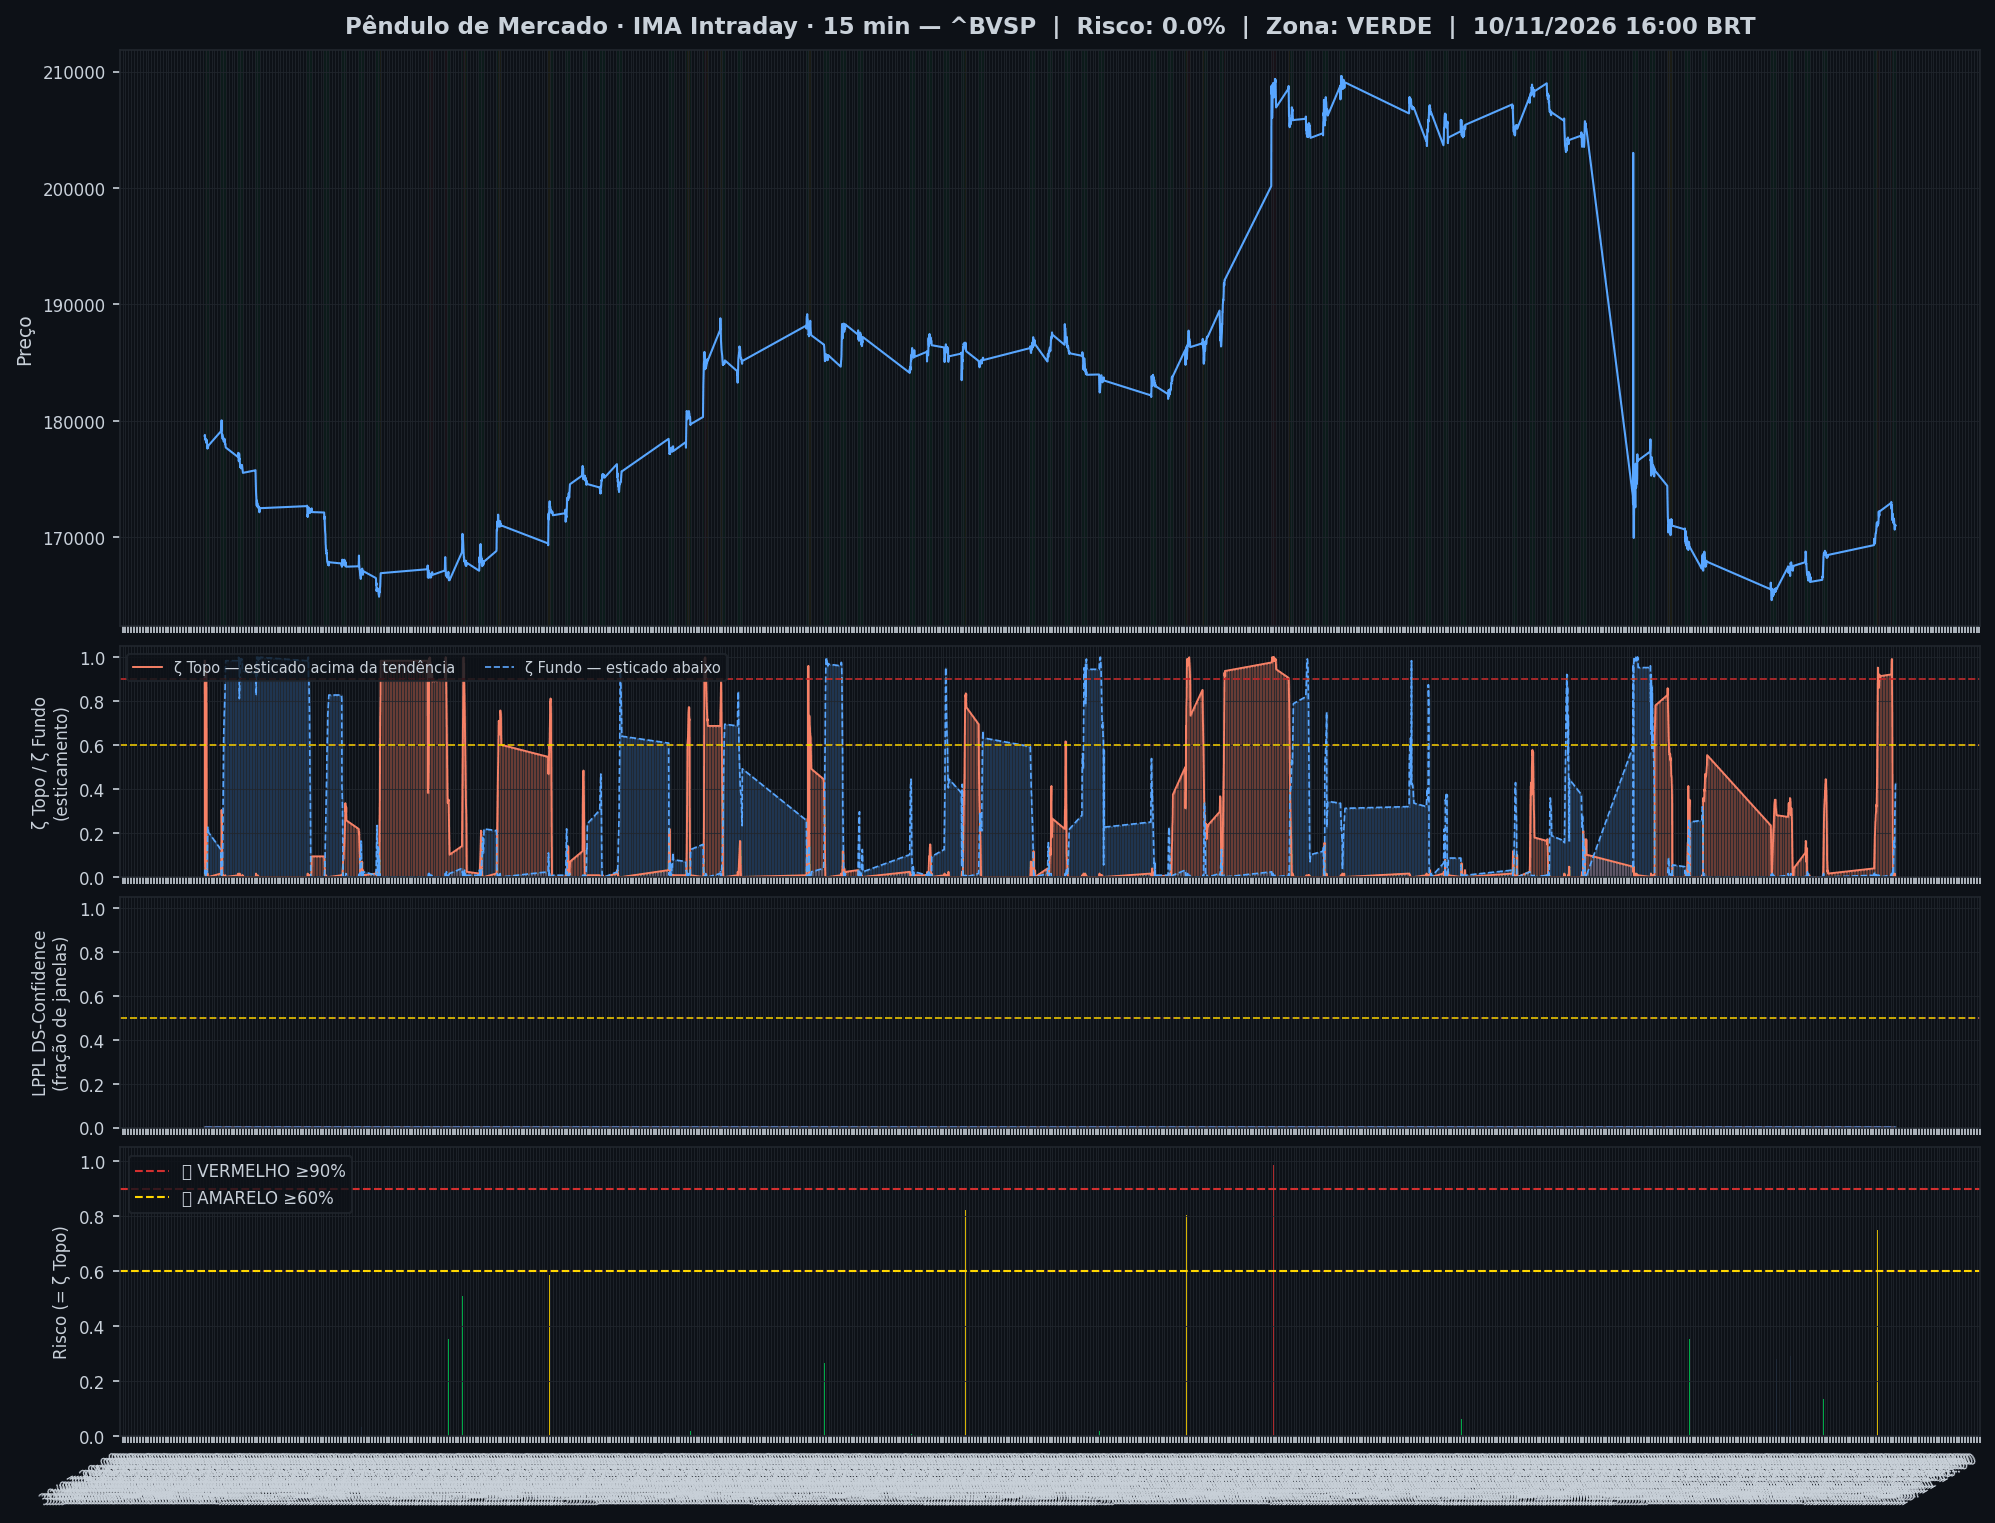
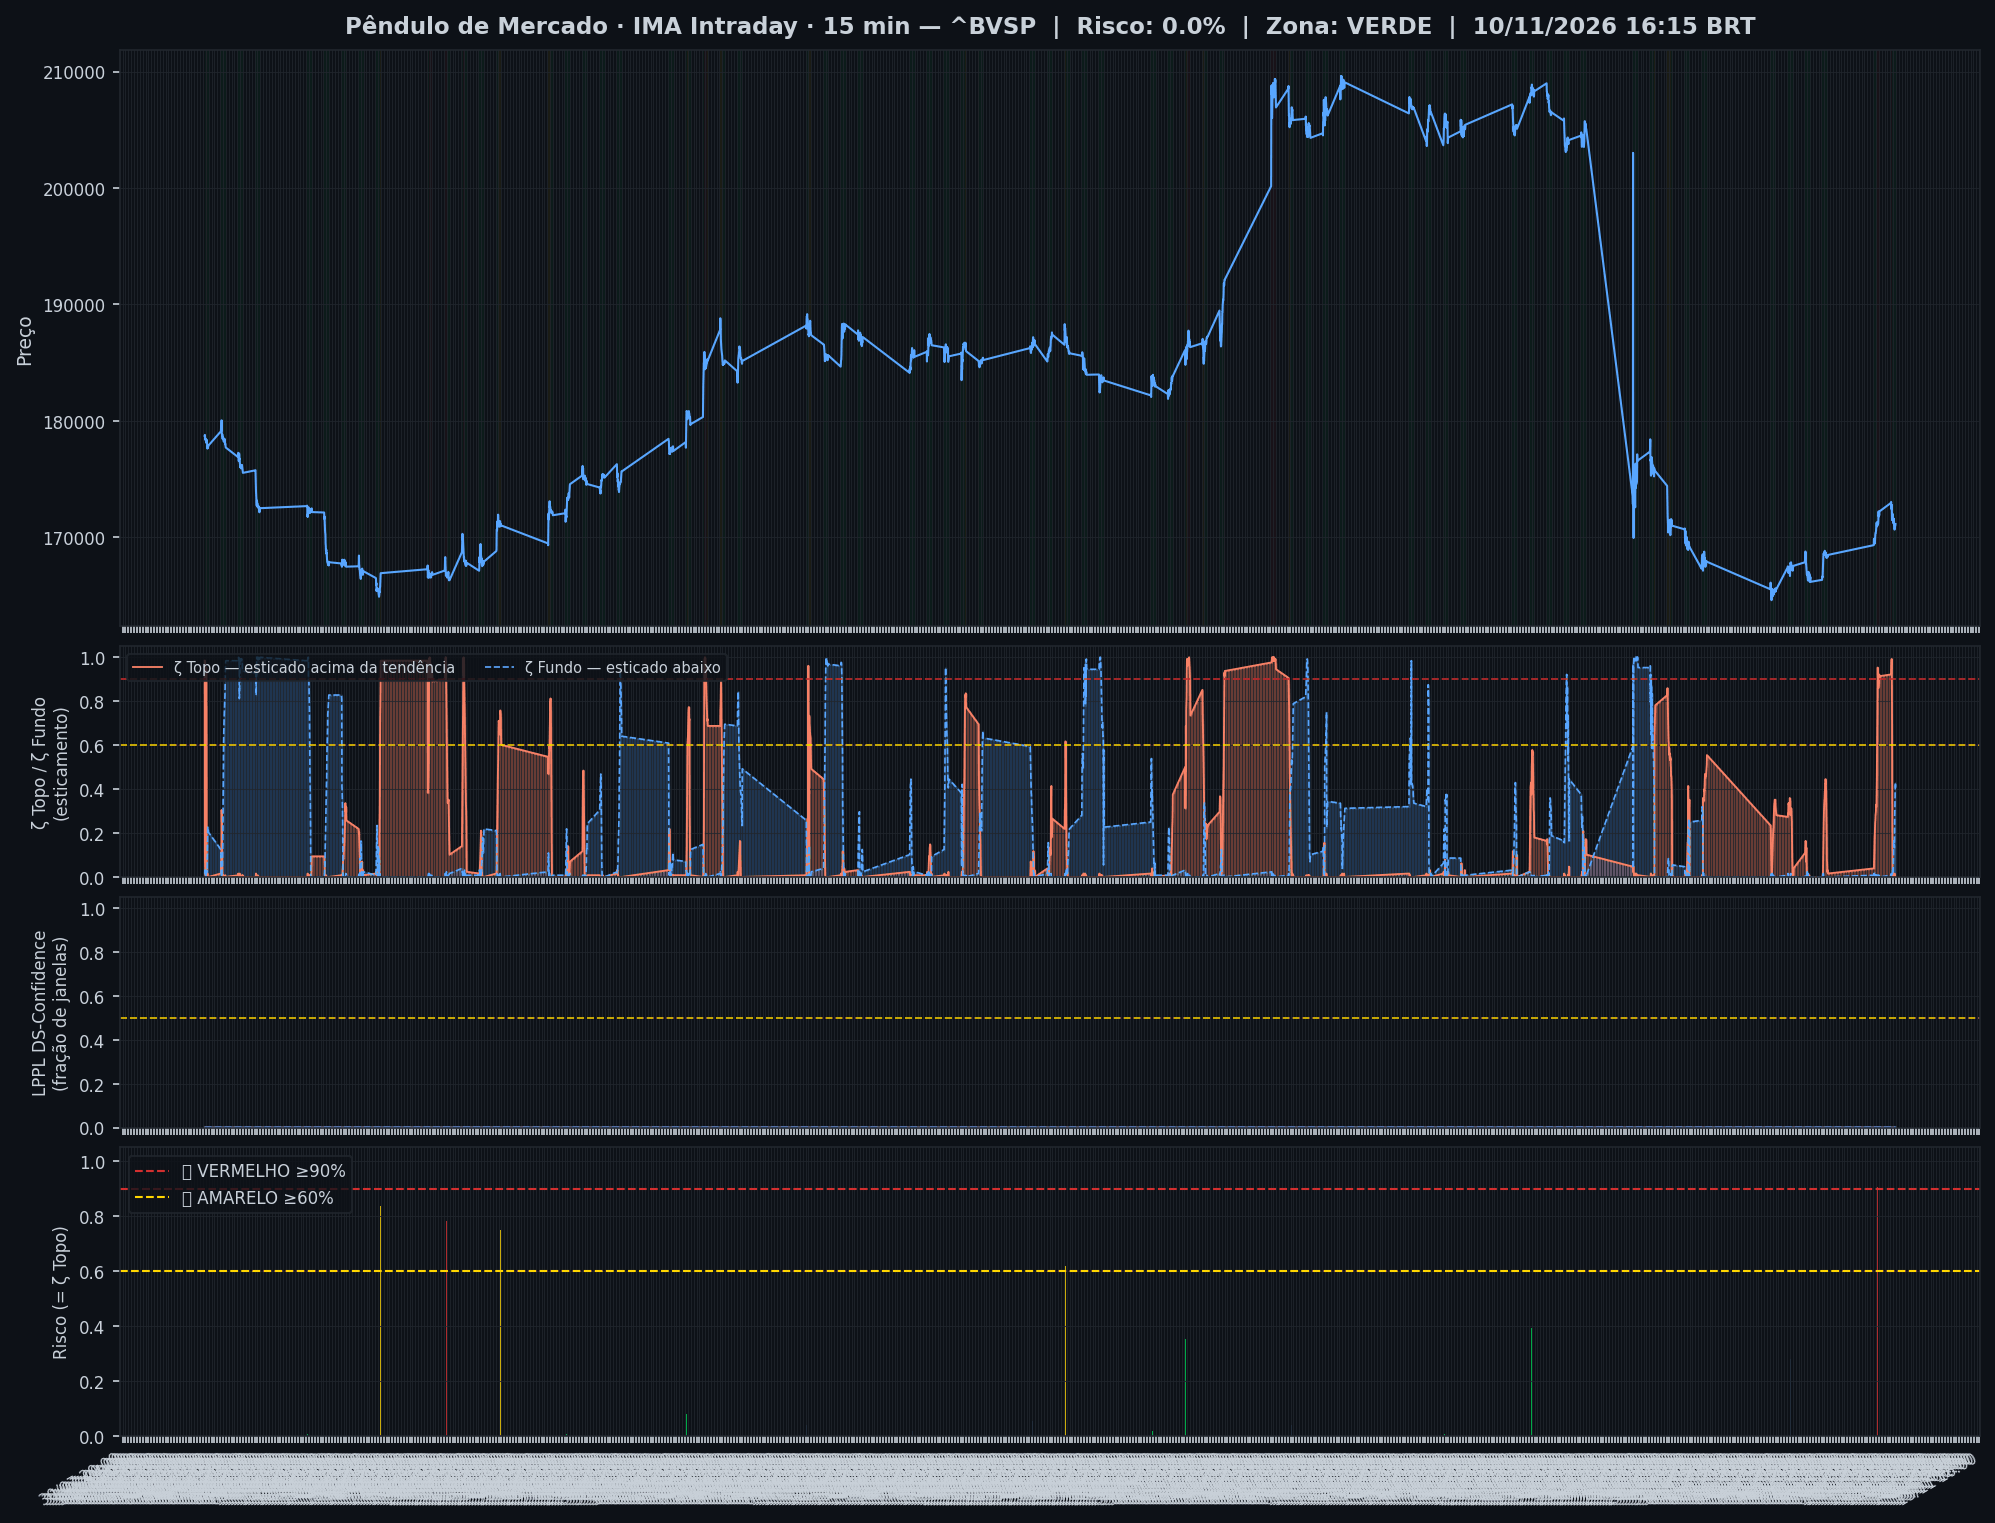
🤖 Auto: Sinal 10/11/2026 16:30

Changed region(s): [[0.7769, 0.4629, 0.9013, 0.5863], [0.6216, 0.4629, 0.6526, 0.5555]]

diff --git a/content/intraday/2026-11-10.md b/content/intraday/2026-11-10.md
@@ -1,10 +1,10 @@
 ---
-title: "🟢 Intraday 10/11/2026 16:00 BRT — VERDE"
+title: "🟢 Intraday 10/11/2026 16:15 BRT — VERDE"
 date: 2026-11-10
 tags: [intraday]
 ---
 
-> [!success] Onde o mercado está agora (10/11 16:00, candles de 15 min): **🟢 Calmo**
+> [!success] Onde o mercado está agora (10/11 16:15, candles de 15 min): **🟢 Calmo**
 > `Pânico ◀──────●──────────────▶ Euforia`
 >
 > O Ibovespa está dentro da sua faixa normal, sem excesso para cima nem para baixo.
@@ -20,7 +20,7 @@ tags: [intraday]
 > | 📍 **Sinais** | hoje: nenhum sinal | [abrir](sinais-topo-fundo/) |
 > | 🧪 **Placar ao vivo** | 1 operação(ões), 0 com lucro, soma -0,8% | [abrir](operacoes/) |
 
-> [!success] IMA Intraday · 15 min (10/11 16:00): 🟢 **VERDE** — Risco 0% · ＝ +0 p.p. vs leitura anterior
+> [!success] IMA Intraday · 15 min (10/11 16:15): 🟢 **VERDE** — Risco 0% · ＝ +0 p.p. vs leitura anterior
 > `░░░░░░░░░░░░░░░░░░░░`
 > Preço na faixa normal em torno da tendência.
 
@@ -32,13 +32,13 @@ tags: [intraday]
 >
 > *Leitura educacional baseada em 26 anos de dados, não recomendação. [Como usar](../metodologia/crise#3-como-usar-na-prática).*
 
-| Indicador — IMA Intraday · 15 min (10/11 16:00) | Valor |
+| Indicador — IMA Intraday · 15 min (10/11 16:15) | Valor |
 |---|---|
 | 🔴 ζ Topo — preço esticado acima da tendência | **0%** |
-| 🔵 ζ Fundo — preço esticado abaixo da tendência | 43% |
+| 🔵 ζ Fundo — preço esticado abaixo da tendência | 41% |
 | 🫧 LPPL bolha — alta super-exponencial (risco de crash) | 0% |
 | 🫧 LPPL antibolha — queda super-exponencial (risco de repique) | 0% |
-| 📊 Ibovespa | 171.014 pts |
+| 📊 Ibovespa | 171.152 pts |
 
 ![Gráfico do sinal](../graficos/sinal_intraday.png)
 
@@ -46,6 +46,7 @@ tags: [intraday]
 
 | Data | Zona | Evento | Risco | ζ Topo | ζ Fundo | LPPL |
 |---|---|---|---|---|---|---|
+| 2026-11-10 16:15 | 🟢 VERDE |  | **0%** | 0% | 41% | 0% |
 | 2026-11-10 16:00 | 🟢 VERDE |  | **0%** | 0% | 43% | 0% |
 | 2026-11-10 15:45 | 🟢 VERDE |  | **0%** | 0% | 41% | 0% |
 | 2026-11-10 15:30 | 🟢 VERDE |  | **0%** | 0% | 38% | 0% |
@@ -75,7 +76,6 @@ tags: [intraday]
 | 2026-11-09 17:45 | 🔴 VERMELHO |  | 🔴 **91%** | 🔴 **91%** | 0% | 0% |
 | 2026-11-09 17:30 | 🔴 VERMELHO |  | 🔴 **91%** | 🔴 **91%** | 0% | 0% |
 | 2026-11-09 17:15 | 🔴 VERMELHO |  | 🔴 **92%** | 🔴 **92%** | 0% | 0% |
-| 2026-11-09 17:00 | 🔴 VERMELHO |  | 🟡 **89%** | 🟡 **89%** | 1% | 0% |
 
 <small>Destaques: 🟡 ≥ 60% · 🔴 ≥ 90% (Risco e ζ Topo) · 🔵 ≥ 60% · 🔪 ≥ 90% (ζ Fundo) · 🫧 ≥ 30% · 🫧🔴 ≥ 50% (LPPL)</small>
 
@@ -84,41 +84,41 @@ tags: [intraday]
 **4% dos ativos em tensão** (1🔴 0🟡) · **0 com ζ Fundo alto** — quanto mais ativos disparam juntos, mais confiável o sinal.
 
 > [!warning] Em destaque no multi-ativo
-> 🟡 **EMBRAER** ζ Topo 89%
+> 🟡 **EMBRAER** ζ Topo 88%
 
 | Zona | Ativo | Setor | ζ Topo | ζ Fundo |
 |---|---|---|---|---|
-| 🔴 | **EMBRAER** | Outros | 🟡 **89.1%** | 0.0% |
-| 🟢 | **BRADESCO** | Financeiro | 0.0% | 53.1% |
-| 🟢 | **SABESP** | Saneamento | 0.0% | 50.8% |
-| 🟢 | **WEG** | Industrial | 43.0% | 0.0% |
-| 🟢 | **AMBEV S/A** | Consumo | 37.5% | 20.3% |
-| 🟢 | **ITAUSA** | Financeiro | 0.0% | 32.0% |
+| 🔴 | **EMBRAER** | Outros | 🟡 **88.3%** | 0.8% |
+| 🟢 | **BRADESCO** | Financeiro | 0.0% | 54.7% |
+| 🟢 | **SABESP** | Saneamento | 0.0% | 46.1% |
+| 🟢 | **WEG** | Industrial | 42.2% | 1.6% |
 | 🟢 | **ITAUUNIBANCO** | Financeiro | 0.0% | 30.5% |
-| 🟢 | **SUZANO S.A.** | Papel/Celulose | 0.0% | 26.6% |
-| 🟢 | **EQUATORIAL** | Energia | 0.0% | 22.7% |
-| 🟢 | **GERDAU** | Siderurgia | 21.1% | 0.0% |
-| 🟢 | **B3** | Financeiro | 0.0% | 15.6% |
-| 🟢 | **AXIA ENERGIA** | Energia | 0.0% | 14.8% |
-| 🟢 | **ENEVA** | Energia | 0.8% | 14.8% |
-| 🟢 | **PETROBRAS** | Petróleo | 14.1% | 0.0% |
+| 🟢 | **SUZANO S.A.** | Papel/Celulose | 0.0% | 30.5% |
+| 🟢 | **ITAUSA** | Financeiro | 0.0% | 29.7% |
+| 🟢 | **AMBEV S/A** | Consumo | 22.7% | 25.8% |
+| 🟢 | **GERDAU** | Siderurgia | 22.7% | 0.0% |
+| 🟢 | **PETROBRAS** | Petróleo | 19.5% | 0.0% |
+| 🟢 | **EQUATORIAL** | Energia | 0.0% | 19.5% |
+| 🟢 | **B3** | Financeiro | 0.0% | 17.2% |
 | 🟢 | **PRIO** | Petróleo | 12.5% | 0.0% |
-| 🟢 | **ULTRAPAR** | Outros | 0.0% | 11.7% |
-| 🟢 | **USD/BRL** | Câmbio | 11.7% | 10.2% |
-| 🟢 | **REDE D OR** | Saúde | 0.8% | 7.8% |
-| 🟢 | **VIBRA** | Energia | 0.0% | 3.9% |
-| 🟢 | **PETROBRAS** | Petróleo | 3.1% | 0.8% |
-| 🟢 | **VALE** | Mineração | 1.6% | 0.0% |
-| 🟢 | **BRASIL** | Financeiro | 0.0% | 1.6% |
-| 🟢 | **LOCALIZA** | Aluguel | 0.0% | 1.6% |
+| 🟢 | **USD/BRL** | Câmbio | 5.5% | 11.7% |
+| 🟢 | **AXIA ENERGIA** | Energia | 0.0% | 7.0% |
+| 🟢 | **ENEVA** | Energia | 0.8% | 7.0% |
+| 🟢 | **PETROBRAS** | Petróleo | 4.7% | 0.0% |
+| 🟢 | **REDE D OR** | Saúde | 0.8% | 3.9% |
+| 🟢 | **ULTRAPAR** | Outros | 0.0% | 3.9% |
 | 🟢 | **BTGP BANCO** | Financeiro | 0.0% | 0.8% |
-| 🟢 | **COPEL** | Energia | 0.0% | 0.8% |
+| 🟢 | **BRASIL** | Financeiro | 0.8% | 0.8% |
+| 🟢 | **VALE** | Mineração | 0.0% | 0.0% |
+| 🟢 | **COPEL** | Energia | 0.0% | 0.0% |
+| 🟢 | **VIBRA** | Energia | 0.0% | 0.0% |
+| 🟢 | **LOCALIZA** | Aluguel | 0.0% | 0.0% |
 
 <small>Destaques: 🟡 ≥ 60% · 🔴 ≥ 90% (Risco e ζ Topo) · 🔵 ≥ 60% · 🔪 ≥ 90% (ζ Fundo) · 🫧 ≥ 30% · 🫧🔴 ≥ 50% (LPPL)</small>
 
 ![Monitor multi-ativo](../graficos/multi_intraday.png)
 
-*Página atualizada em 10/11/2026 16:16 BRT (leitura da barra de 2026-11-10 16:00 BRT).*
+*Página atualizada em 10/11/2026 16:30 BRT (leitura da barra de 2026-11-10 16:15 BRT).*
 
 > [!warning] O que este indicador não faz
 > Medido em 5 anos de Ibovespa, o ζ **não antecipa** topos nem fundos: a capacidade de separar o que sobe do que cai ficou em 0,49–0,52, e 0,50 é moeda jogada ao ar. Ele descreve o estado de agora; não é aviso do que vem. As zonas verde/amarelo/vermelho continuam na página como descrição desse estado — **não as use como sinal de entrada ou saída**.

diff --git a/content/index.md b/content/index.md
@@ -6,9 +6,9 @@ tags: [home]
 
 **As ondas do mercado, explicadas.** Leitura do Ibovespa com estatística de 26 anos, baseada no trabalho de pesquisadores e traders reconhecidos e adaptada por Jarbas Daniel da Costa.
 
-*Última atualização: 10/11/2026 16:16 BRT · Intraday 15min*
+*Última atualização: 10/11/2026 16:30 BRT · Intraday 15min*
 
-> [!success] Onde o mercado está agora (10/11 16:00, candles de 15 min): **🟢 Calmo**
+> [!success] Onde o mercado está agora (10/11 16:15, candles de 15 min): **🟢 Calmo**
 > `Pânico ◀──────●──────────────▶ Euforia`
 >
 > O Ibovespa está dentro da sua faixa normal, sem excesso para cima nem para baixo.
@@ -44,18 +44,18 @@ tags: [home]
 > *Leitura educacional baseada em 26 anos de dados, não recomendação. [Como usar](metodologia/crise#3-como-usar-na-prática).*
 
 > [!info]- 🌊 Detalhes do Sinal IMA (indicadores e últimos 7 pregões)
-> > [!success] IMA Intraday · 15 min (10/11 16:00): 🟢 **VERDE** — Risco 0% · ＝ +0 p.p. vs leitura anterior
+> > [!success] IMA Intraday · 15 min (10/11 16:15): 🟢 **VERDE** — Risco 0% · ＝ +0 p.p. vs leitura anterior
 > > `░░░░░░░░░░░░░░░░░░░░`
 > > Preço na faixa normal em torno da tendência.
 >
 >
-> | Indicador — IMA Intraday · 15 min (10/11 16:00) | Valor |
+> | Indicador — IMA Intraday · 15 min (10/11 16:15) | Valor |
 > |---|---|
 > | 🔴 ζ Topo — preço esticado acima da tendência | **0%** |
-> | 🔵 ζ Fundo — preço esticado abaixo da tendência | 43% |
+> | 🔵 ζ Fundo — preço esticado abaixo da tendência | 41% |
 > | 🫧 LPPL bolha — alta super-exponencial (risco de crash) | 0% |
 > | 🫧 LPPL antibolha — queda super-exponencial (risco de repique) | 0% |
-> | 📊 Ibovespa | 171.014 pts |
+> | 📊 Ibovespa | 171.152 pts |
 >
 > **Multi-ativo:** 4% em tensão (1🔴 0🟡 de 25 ativos)
 >
@@ -63,7 +63,7 @@ tags: [home]
 >
 > | Data | Zona | Risco | ζ Topo | ζ Fundo | LPPL |
 > |---|---|---|---|---|---|
-> | [10/11/2026](intraday/2026-11-10) | 🟢 VERDE | **0%** | 0% | 43% | 0% |
+> | [10/11/2026](intraday/2026-11-10) | 🟢 VERDE | **0%** | 0% | 41% | 0% |
 > | [09/11/2026](intraday/2026-11-09) | 🔴 VERMELHO | 🔴 **91%** | 🔴 **91%** | 0% | 0% |
 >
 > <small>Destaques: 🟡 ≥ 60% · 🔴 ≥ 90% (Risco e ζ Topo) · 🔵 ≥ 60% · 🔪 ≥ 90% (ζ Fundo) · 🫧 ≥ 30% · 🫧🔴 ≥ 50% (LPPL)</small>

diff --git a/content/operacoes/entradas.md b/content/operacoes/entradas.md
@@ -31,7 +31,7 @@ description: "Compra depois de um sinal de fundo: Nadaraya no diário, semáforo
 > | Diário · Semáforo N3 após ζ Fundo | 07/07/26 a 172.021 | 10/08/26 a 172.021 | **+0,0%** | stop no preço de entrada |
 > | H4 · Semáforo N2 | 12/06/26 14h a 171.134 | 15/06/26 14h a 171.134 | **+0,0%** | stop no preço de entrada |
 >
-> <small>Atualizado 09/11 19:00 · checado no pregão às 16:15. Nota: ✅ passou no teste fora da amostra (walk-forward 2008–2026) · 🧪 em teste (H4, com aviso no Telegram) ou em observação (ζ, sem aviso) · 🧪 na tabela = operação do teste ao vivo.</small>
+> <small>Atualizado 09/11 19:00 · checado no pregão às 16:30. Nota: ✅ passou no teste fora da amostra (walk-forward 2008–2026) · 🧪 em teste (H4, com aviso no Telegram) ou em observação (ζ, sem aviso) · 🧪 na tabela = operação do teste ao vivo.</small>
 >
 > *Regras: depois de um sinal de fundo, o Diário entra quando o Nadaraya vira para cima; o Semanal e o H4 entram quando um fundo do semáforo fica fixo. Stop e saída de cada regra na [metodologia](metodologia/regras-de-operacao#entradas-do-método). Nenhuma regra de venda passou no teste. Os números do histórico têm viés de escolha (overfitting); o placar ao vivo é o que vale. Leitura educacional do método, não recomendação.*
 

diff --git a/content/historico.md b/content/historico.md
@@ -5,7 +5,7 @@ tags: [historico]
 
 # 📜 Histórico de leituras (v5)
 
-**2.269 leituras** desde 2026-07-03. Na página ficam os últimos 3 dias leitura por leitura e o resumo de cada dia anterior; o registro inteiro está no arquivo para baixar.
+**2.270 leituras** desde 2026-07-03. Na página ficam os últimos 3 dias leitura por leitura e o resumo de cada dia anterior; o registro inteiro está no arquivo para baixar.
 
 [**Baixar o histórico completo**](historico-completo.csv) (100 KB · abre no Excel e no LibreOffice)
 
@@ -16,6 +16,7 @@ tags: [historico]
 
 | Data | Modo | Zona | Risco | IMA | LPPL |
 |---|---|---|---|---|---|
+| 2026-11-10 16:15 | intraday | 🟢 VERDE | 0% | 0% | 0% |
 | 2026-11-10 16:00 | intraday | 🟢 VERDE | 0% | 0% | 0% |
 | 2026-11-10 15:45 | intraday | 🟢 VERDE | 0% | 0% | 0% |
 | 2026-11-10 15:30 | intraday | 🟢 VERDE | 0% | 0% | 0% |

diff --git a/content/operacoes/ranking.md b/content/operacoes/ranking.md
@@ -5,7 +5,7 @@ tags: [operacoes]
 description: "As regras de compra do site ordenadas pelo resultado, com treino, teste e placar ao vivo"
 ---
 
-*Atualizado 10/11/2026 16:16 · histórico simulado com as regras congeladas em 23/10/2026 + placar ao vivo.*
+*Atualizado 10/11/2026 16:30 · histórico simulado com as regras congeladas em 23/10/2026 + placar ao vivo.*
 
 As regras de compra do site, **da que mais rendeu para a que menos rendeu**. O resultado é por operação, no índice à vista, sem custos e sem juros compostos (a soma é só a soma das operações). **Treino** = entradas de 2001 a 2013 e **teste** = 2014 em diante: uma regra só é confiável se ganhou nos dois. O único resultado sem nenhum ajuste ao histórico é o **placar ao vivo**.
 

diff --git a/content/linha-do-tempo/index.md b/content/linha-do-tempo/index.md
@@ -5,7 +5,7 @@ description: "Todo sinal, ordem, stop e aviso do Pêndulo de Mercado, do mais re
 tags: [eventos]
 ---
 
-*Atualizada 10/11/2026 16:16 BRT · a cada 15 min no pregão e às 19h.*
+*Atualizada 10/11/2026 16:30 BRT · a cada 15 min no pregão e às 19h.*
 
 Tudo o que o sistema fez ou detectou, **do mais recente para o mais antigo**: sinais de topo e fundo, ordens de compra e de venda armadas, compras, vendas, stops, avisos de 🚨 preço perto do nível e mudanças do Sinal IMA. Os **últimos 7 dias** ficam abertos; o resto, por **ano → mês → dia**.
 
